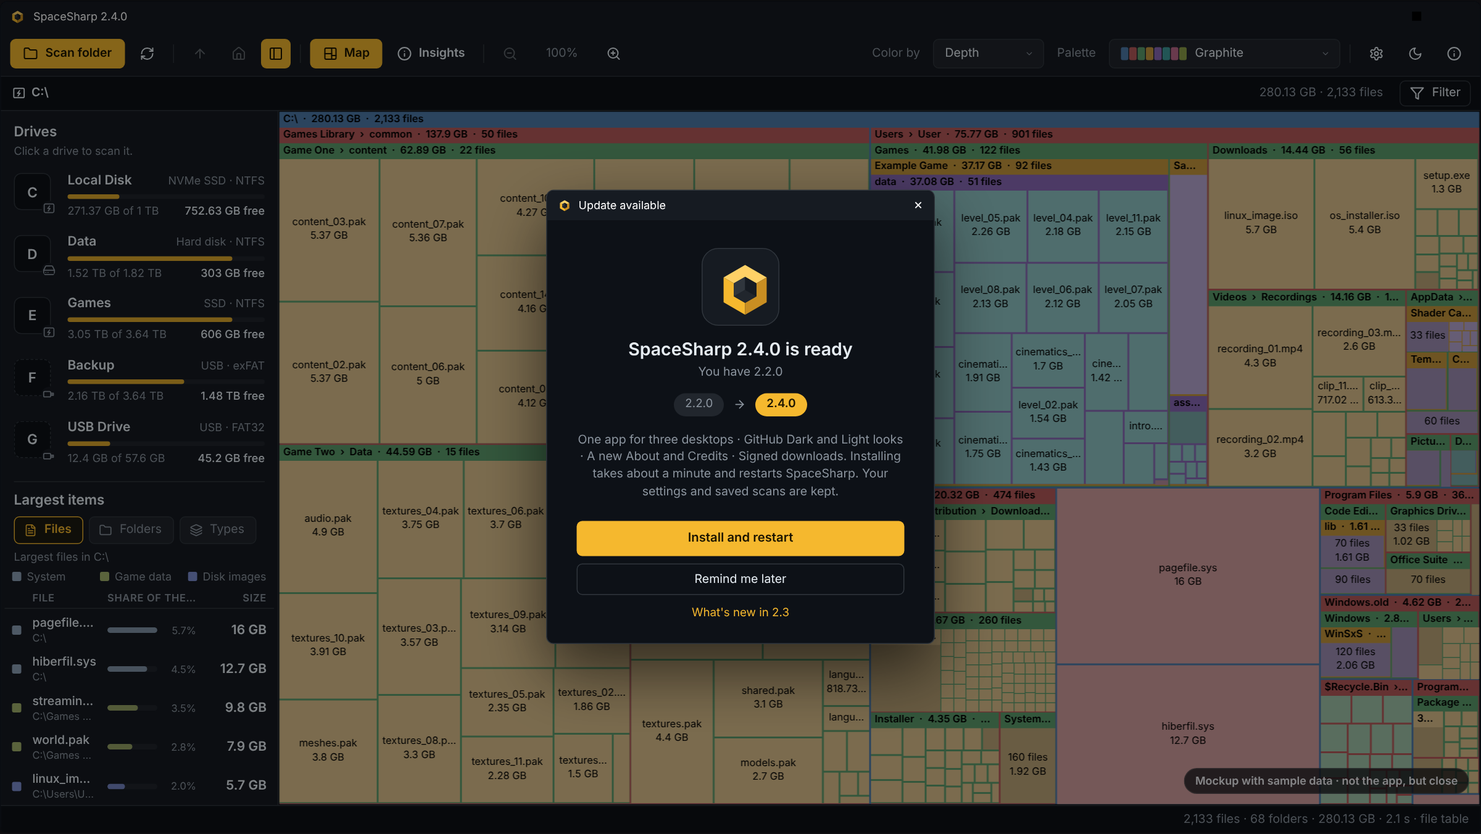
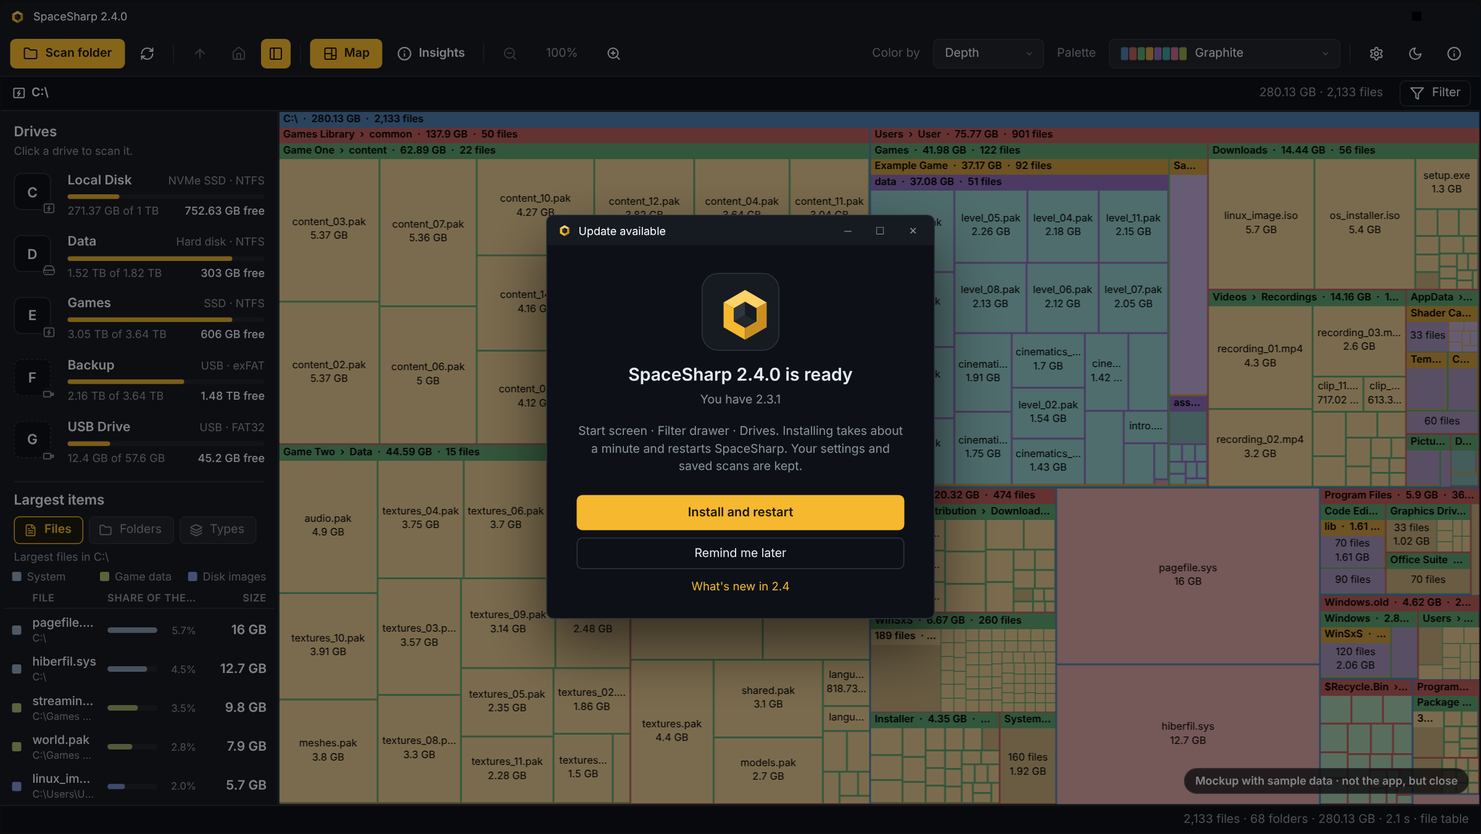
Small repo fixes

Changed region(s): [[0.3438, 0.3107, 0.6562, 0.7766], [0.3438, 0.2175, 0.6562, 0.2796]]

diff --git a/docs/spacesharp-mock.js b/docs/spacesharp-mock.js
@@ -206,7 +206,7 @@
   .ssm .st-val { display:inline-block; width:44px; text-align:right; color:var(--dim); font-size:15px; vertical-align:middle; margin-left:8px; }
   .ssm .dialog.settings .df { padding:16px 26px; margin-top:auto; } .ssm .st-reset { font-size:15px; } .ssm .dialog.settings .df .btn.accent { height:40px; font-size:15px; padding:0 20px; }
   .ssm .sw { width:40px; height:22px; border-radius:11px; background:var(--accent); position:relative; } .ssm .sw::after { content:""; position:absolute; top:3px; right:3px; width:16px; height:16px; border-radius:50%; background:#1C1500; } .ssm .sw.off { background:var(--hover); } .ssm .sw.off::after { right:auto; left:3px; background:var(--dim); }
-  .ssm .dialog.update { width:420px; } .ssm .ucol { padding:30px 32px 24px; display:flex; flex-direction:column; align-items:center; text-align:center; } .ssm .ucol .tile { width:84px; height:84px; border-radius:18px; background:var(--panel); display:grid; place-items:center; } .ssm .ucol .tile svg { width:64px; height:64px; } .ssm .ucol .t { font-size:19px; font-weight:600; margin-top:14px; } .ssm .ucol .h { color:var(--dim); margin-top:4px; } .ssm .ucol .jump { display:flex; align-items:center; gap:10px; margin-top:14px; font-size:12.5px; } .ssm .ucol .jump svg { width:14px; height:14px; color:var(--dim); } .ssm .ucol .from { padding:4px 12px; border-radius:999px; background:var(--control); color:var(--dim); } .ssm .ucol .to { padding:4px 12px; border-radius:999px; background:var(--accent); color:var(--accent-text); font-weight:600; } .ssm .ucol p { margin:16px 0 0; color:var(--dim); line-height:1.45; } .ssm .ucol .btn.big { width:100%; height:38px; margin-top:22px; font-size:13.5px; } .ssm .ucol .btn.wide { width:100%; height:34px; margin-top:8px; } .ssm .ucol a { color:var(--accent); font-size:12.5px; margin-top:12px; } .ssm .uhero { margin:20px 20px 0; padding:26px 24px 22px; background:var(--panel); border:1px solid var(--stroke); border-radius:10px; display:flex; flex-direction:column; align-items:center; text-align:center; } .ssm .uhero .mk svg { width:72px; height:72px; } .ssm .uhero .nm { display:flex; align-items:baseline; gap:10px; margin-top:10px; } .ssm .uhero .nm span { font-size:22px; font-weight:600; } .ssm .uhero .nm b { font-size:44px; font-weight:800; color:var(--accent); letter-spacing:-.03em; line-height:1; } .ssm .uhero .h { color:var(--dim); margin-top:6px; } .ssm .ulist { display:flex; flex-direction:column; gap:9px; padding:22px 36px 20px; font-size:13.5px; } .ssm .ulist div { display:flex; align-items:center; gap:12px; } .ssm .ulist svg { width:16px; height:16px; color:var(--accent); } .ssm .ulist a { color:var(--accent); font-size:12.5px; margin-left:28px; } .ssm .keeps { color:var(--dim); font-size:12px; } .ssm .dialog.notes { width:560px; }
+  .ssm .dialog.update { width:420px; } .ssm .ucol { padding:30px 32px 24px; display:flex; flex-direction:column; align-items:center; text-align:center; } .ssm .ucol .tile { width:84px; height:84px; border-radius:18px; background:var(--panel); display:grid; place-items:center; } .ssm .ucol .tile svg { width:64px; height:64px; } .ssm .ucol .t { font-size:19px; font-weight:600; margin-top:14px; } .ssm .ucol .h { color:var(--dim); margin-top:6px; } .ssm .ucol p { margin:16px 0 0; color:var(--dim); line-height:1.45; font-size:13px; } .ssm .ucol .btn.big { width:100%; height:38px; margin-top:22px; font-size:13.5px; } .ssm .ucol .btn.wide { width:100%; height:34px; margin-top:8px; } .ssm .ucol a { color:var(--accent); font-size:12.5px; margin-top:12px; } .ssm .uhero { margin:20px 20px 0; padding:26px 24px 22px; background:var(--panel); border:1px solid var(--stroke); border-radius:10px; display:flex; flex-direction:column; align-items:center; text-align:center; } .ssm .uhero .mk svg { width:72px; height:72px; } .ssm .uhero .nm { display:flex; align-items:baseline; gap:10px; margin-top:10px; } .ssm .uhero .nm span { font-size:22px; font-weight:600; } .ssm .uhero .nm b { font-size:44px; font-weight:800; color:var(--accent); letter-spacing:-.03em; line-height:1; } .ssm .uhero .h { color:var(--dim); margin-top:6px; } .ssm .ulist { display:flex; flex-direction:column; gap:9px; padding:22px 36px 20px; font-size:13.5px; } .ssm .ulist div { display:flex; align-items:center; gap:12px; } .ssm .ulist svg { width:16px; height:16px; color:var(--accent); } .ssm .ulist a { color:var(--accent); font-size:12.5px; margin-left:28px; } .ssm .keeps { color:var(--dim); font-size:12px; } .ssm .dialog.notes { width:560px; }
   .ssm .dialog .ub { display:flex; gap:16px; padding:22px 24px 18px; } .ssm .dialog .ub .g { width:26px; height:26px; color:var(--accent); flex:none; margin-top:2px; }
   .ssm .dialog .ub .t { font-size:15px; font-weight:600; } .ssm .dialog .ub .h { color:var(--dim); margin-top:6px; line-height:1.45; }
   .ssm .dialog .nb { padding:20px 24px 16px; line-height:1.6; white-space:pre-wrap; max-height:380px; overflow:hidden; } .ssm .dialog .nb b { font-weight:600; }
@@ -873,14 +873,15 @@
         scrim.hidden = false;
       }
       if (state.scene === "update" || state.scene === "whatsnew") {
-        const next = state.version, cur = "2.2.0";
+        // the real prompt: the mark on its tile, "x.y.z is ready", the version you have, the release's first headings
+        // leading one paragraph, then Install and restart, Remind me later and a What's new link
+        const next = state.version, cur = "2.3.1", short = next.replace(/\.0$/, "");
         dlg().className = "dialog " + (state.scene === "update" ? "update" : "notes");
         dlg().innerHTML = state.scene === "update"
-          ? dialogTitle("Update available") + `<div class="ucol"><span class="tile">${MARK}</span><div class="t">SpaceSharp ${next} is ready</div><div class="h">You have ${cur}</div>
-            <div class="jump"><span class="from">${cur}</span>${svg("arrow")}<span class="to">${next}</span></div>
-            <p>One app for three desktops · GitHub Dark and Light looks · A new About and Credits · Signed downloads. Installing takes about a minute and restarts SpaceSharp. Your settings and saved scans are kept.</p>
-            <div class="btn accent big">Install and restart</div><div class="btn outline wide">Remind me later</div><a>What's new in 2.3</a></div>`
-          : dialogTitle(`What's new in ${next}`) + `<div class="nb"><b>ONE APP FOR THREE DESKTOPS</b>\n•  SpaceSharp draws the same map with Avalonia and Skia on Windows, macOS and Linux. Everything the Windows app had is in it; the Mac and Linux packages come in a later release.\n•  Two looks are new: GitHub Dark and GitHub Light, in Settings › Appearance. Retro is back in the light theme.\n•  About is laid out in two columns, and Credits is a window of its own.\n\n<b>FIXES</b>\n•  The fast NTFS scan through the administrator helper no longer fails with "Cannot open volume".\n•  The scan card keeps counting all the way through "Read the file table".\n\n<b>UNDER THE HOOD</b>\n•  Releases are signed: the downloads carry a code signature, so Windows shows a verified publisher.\n…</div><div class="df"><div class="btn">${svg("open")}See all changes on GitHub</div><span class="spacer"></span><div class="btn accent">OK</div></div>`;
+          ? dialogTitle("Update available", true) + `<div class="ucol"><span class="tile">${MARK}</span><div class="t">SpaceSharp ${next} is ready</div><div class="h">You have ${cur}</div>
+            <p>Start screen · Filter drawer · Drives. Installing takes about a minute and restarts SpaceSharp. Your settings and saved scans are kept.</p>
+            <div class="btn accent big">Install and restart</div><div class="btn outline wide">Remind me later</div><a>What's new in ${short}</a></div>`
+          : dialogTitle(`What's new in ${next}`, true) + `<div class="nb"><b>START SCREEN</b>\n•  The start screen is laid out for any number of saved scans. The last scan is a panel of its own with a large ring, the earlier scans are rows under it, and a drive at 85% or more is shown in the warning color.\n\n<b>FILTER DRAWER</b>\n•  One stacked bar shows how the scan divides between the file types; size and age are scales with seven ticks each.\n\n<b>DRIVES</b>\n•  Each drive is a letter tile with the bar, used of total and free under the name. The bar turns orange at 85% and red at 92%.\n\n<b>LARGEST ITEMS</b>\n•  The list is a table: a color per file type, a share column and a legend.\n\n<b>FIXES</b>\n•  Zoom to folder on a merged cluster fills the window with the cluster.\n•  Inspect's By age donut has its colors back and shows the biggest band.\n…</div><div class="df"><div class="btn">${svg("open")}See all changes on GitHub</div><span class="spacer"></span><div class="btn accent">OK</div></div>`;
         scrim.hidden = false;
       }
       if (state.scene === "settings") {

diff --git a/README.md b/README.md
@@ -14,11 +14,13 @@
   <img src="https://img.shields.io/badge/Windows-10%20%7C%2011-74A6CC" alt="Windows 10 and 11">
   <img src="https://img.shields.io/badge/.NET-10-8C84D6" alt=".NET 10">
   <img src="https://img.shields.io/badge/Avalonia-12-8B44AC" alt="Avalonia 12">
+  <img src="https://img.shields.io/badge/languages-18-3FB950" alt="18 languages">
 </p>
 
 <p align="center">
   <a href="https://github.com/SpaceSharpApp/SpaceSharp/releases/latest"><img src="https://img.shields.io/badge/Download-latest%20release-F5B82E?style=for-the-badge" alt="Download the latest release"></a>
   <a href="https://spacesharp.app/"><img src="https://img.shields.io/badge/Website-spacesharp.app-21262D?style=for-the-badge" alt="Website"></a>
+  <a href="CHANGELOG.md"><img src="https://img.shields.io/badge/What's%20new-2.4-21262D?style=for-the-badge" alt="What's new in 2.4"></a>
 </p>
 
 <p align="center">
@@ -27,37 +29,62 @@
   <sub>Every file and folder is a box sized by the space it uses. Sample data.</sub>
 </p>
 
-Scan a drive, and the whole thing fills the window: folders are frames with a title bar, files are boxes inside them, and the biggest boxes are where your space went. Zoom into any folder, filter in plain words, see what changed since last time, and send what you do not need to the Recycle Bin without leaving the map.
+Your drive is full and you have no idea why. SpaceSharp reads the whole thing in seconds and draws it as one picture: folders are frames with a title bar, files are boxes inside them, and the biggest boxes are where your space went. Zoom into any folder, type a filter in plain words, see what changed since last time, and send what you do not need to the Recycle Bin without leaving the map.
 
-One portable `.exe`, or an installer that updates itself. Free and open source, and code-signed. Since 2.3 SpaceSharp is one app for Windows, macOS and Linux, built on [Avalonia](https://avaloniaui.net); the Mac and Linux packages follow in a later release.
+One portable `.exe`, or an installer that updates itself. Free, open source, code-signed, and it sends nothing anywhere. Since 2.3 SpaceSharp is one app for Windows, macOS and Linux, built on [Avalonia](https://avaloniaui.net); the Mac and Linux packages follow in a later release.
+
+## Thirty seconds to an answer
+
+1. **Click a drive.** The NTFS file table is read directly, so a terabyte takes seconds, not minutes.
+2. **Look at the big boxes.** That is your space. Double-click to zoom in, Backspace to come back up.
+3. **Type what you are looking for.** `videos over 1GB older than a year` dims everything else. Select the matches, press Del, done.
+
+## Why people keep it installed
+
+- **It is fast where it counts.** A drive with a million files is on screen before you have finished reading this sentence. Scans are saved, so the next launch opens yesterday's map instantly and shows what grew.
+- **It speaks your language.** The filter understands `photos`, `over 500 MB`, `not modified in 2 years`, in any combination, and the drawer writes the same filter from checkboxes and scales. The interface itself comes in 18 languages.
+- **It tells you what is safe to clear.** Insights lists the usual suspects (Windows.old, caches, the Recycle Bin, stale Downloads) with the space they hold and one button each.
+- **It looks the way you want.** Thirteen palettes, twelve looks for the window, cushion shading with its own light direction, and a palette editor for your own colors, all with a live preview.
+- **It never surprises you.** Deleting always goes through the Recycle Bin, the map updates without a rescan, and the only network traffic is the update check, which the portable exe does not even make.
+
+## A tour
+
+<table align="center">
+  <tr>
+    <td align="center" width="50%"><a href="docs/shot-start.png"><img src="docs/shot-start.png" alt="The start screen"></a><br><sub><b>Start.</b> Your last scan ready to open, the earlier ones under it, how full every drive is now.</sub></td>
+    <td align="center" width="50%"><a href="docs/shot-insights.png"><img src="docs/shot-insights.png" alt="The Insights view"></a><br><sub><b>Insights.</b> The map swapped for the numbers, every row a click back to it.</sub></td>
+  </tr>
+  <tr>
+    <td align="center"><a href="docs/shot-filter.png"><img src="docs/shot-filter.png" alt="The filter drawer"></a><br><sub><b>Filter.</b> Pick types, set size and age on a scale, and the map dims to the matches.</sub></td>
+    <td align="center"><a href="docs/shot-change.png"><img src="docs/shot-change.png" alt="Color by change"></a><br><sub><b>What changed.</b> Grew warm, shrank cool, new in amber.</sub></td>
+  </tr>
+  <tr>
+    <td align="center"><a href="docs/shot-inspect.png"><img src="docs/shot-inspect.png" alt="The Inspect window"></a><br><sub><b>Inspect.</b> Where the space is, by type and by age.</sub></td>
+    <td align="center"><a href="docs/shot-menu.png"><img src="docs/shot-menu.png" alt="The right-click menu"></a><br><sub><b>Right-click.</b> Inspect, open, filter to this type, or send it to the Recycle Bin.</sub></td>
+  </tr>
+  <tr>
+    <td align="center"><a href="docs/shot-settings.png"><img src="docs/shot-settings.png" alt="Settings, Treemap page"></a><br><sub><b>Shading.</b> Every slider shows in the preview as you drag it.</sub></td>
+    <td align="center"><a href="docs/shot-light.png"><img src="docs/shot-light.png" alt="The light theme, colored by file type"></a><br><sub><b>Light theme.</b> Colored by file type, with the Pastel palette.</sub></td>
+  </tr>
+</table>
 
 ## What it does
 
 | | |
 |---|---|
 | **Scans a whole drive in seconds** | Reads the NTFS file table directly (asks for administrator rights once); a parallel folder walk covers everything else. Hidden and system files included, junctions skipped. |
-| **One map, shaded your way** | Folders are frames, files are cushioned boxes. Shading depth, light direction, title bars, text colors and grid are sliders in Settings with a live preview. |
-| **Filter in plain words** | `videos over 500MB older than 1 year` dims everything else and keeps the layout, so you see where the matches are. A drawer with checkboxes and sliders writes the same filter for you. |
-| **Insights view** | One click swaps the map for the numbers: what is scanned, free and safe to clear; space by file type; places that are usually safe to empty (Windows.old, caches, the Recycle Bin, old Downloads) with one Recycle button; when files were last changed; the largest folders and files; what grew, shrank and appeared since last scan. Every row is a click back to the map, filtered to it. |
-| **Remembers every scan** | Opens with yesterday's map on screen. Color by change shows what grew, shrank or appeared since last time. |
+| **One map, shaded your way** | Folders are frames, files are cushioned boxes. Shading depth, spread, tone, fade and light direction, title bars, text colors and grid are controls in Settings with a live preview. |
+| **Filter in plain words** | `videos over 500MB older than 1 year` dims everything else and keeps the layout, so you see where the matches are. A drawer with type tiles, size and age scales and quick filters writes the same filter for you. |
+| **Insights view** | One click swaps the map for the numbers: what is scanned, free and safe to clear; space by file type; places that are usually safe to empty with one Recycle button; when files were last changed; the largest folders and files; what grew, shrank and appeared since last scan. Every row is a click back to the map, filtered to it. |
+| **Remembers every scan** | Opens with yesterday's map on screen. Color by change shows what grew, shrank or appeared since last time. The side panel's Largest items has a Changes tab for the same. |
 | **Inspect anything** | Size and share, where the space is inside, donuts by type and by age, and a callout when one thing holds most of a folder. |
-| **Thirteen palettes, twelve looks, and your own** | Seven palettes for the dark theme, six for the light one, twelve hues each, and six looks per theme for the window itself. A palette creator makes new ones from a base color or by hex. |
+| **Thirteen palettes, twelve looks, and your own** | Seven palettes for the dark theme, six for the light one, twelve hues each, and six looks per theme for the window itself. The palette editor is one list of colors you can type into, with a picker, contrast checks and a sample map. |
 | **Cleans up safely** | Everything goes to the Recycle Bin and the map updates without a rescan. |
+| **Knows your keyboard** | The shortcuts window draws your keyboard (QWERTY, Nordic, QWERTZ, AZERTY or Dvorak, Mac keys on a Mac) with the keys SpaceSharp uses lit up. |
 
-<table align="center">
-  <tr>
-    <td align="center" width="50%"><a href="docs/shot-insights.png"><img src="docs/shot-insights.png" alt="The Insights view"></a><br><sub><b>Insights.</b> The map swapped for the numbers, every row a click back to it.</sub></td>
-    <td align="center" width="50%"><a href="docs/shot-filter.png"><img src="docs/shot-filter.png" alt="The filter drawer"></a><br><sub><b>Filter.</b> Check types, set size and age, and the map dims to the matches.</sub></td>
-  </tr>
-  <tr>
-    <td align="center"><a href="docs/shot-change.png"><img src="docs/shot-change.png" alt="Color by change"></a><br><sub><b>What changed.</b> Grew warm, shrank cool, new in amber.</sub></td>
-    <td align="center"><a href="docs/shot-inspect.png"><img src="docs/shot-inspect.png" alt="The Inspect window"></a><br><sub><b>Inspect.</b> Where the space is, by type and by age.</sub></td>
-  </tr>
-  <tr>
-    <td align="center"><a href="docs/shot-settings.png"><img src="docs/shot-settings.png" alt="Settings, Treemap page"></a><br><sub><b>Shading.</b> Every slider shows in the preview as you drag it.</sub></td>
-    <td align="center"><a href="docs/shot-menu.png"><img src="docs/shot-menu.png" alt="The right-click menu"></a><br><sub><b>Right-click.</b> Inspect, open, filter to this type, or send it to the Recycle Bin.</sub></td>
-  </tr>
-</table>
+### New in 2.4
+
+A redesigned start screen, filter drawer, drive list, largest-items table, palette editor and shortcuts window; a keyboard map that follows your layout; clusters that zoom properly; and a long list of fixes. The whole story is in the [changelog](CHANGELOG.md).
 
 ## Download
 
@@ -81,11 +108,12 @@ For 64-bit Windows 10 and 11 (Windows on ARM runs them through x64 emulation). G
 1. Click a drive in the **Drives** list, or **Scan folder** for one folder. Windows asks for administrator rights for a drive scan; without them, protected folders are skipped and marked.
 2. The biggest boxes are the biggest space users. Hover for the path and size, double-click a folder to zoom in, Backspace or the mouse back button to go up.
 3. Right-click a box for Inspect, Open, Show in Explorer, Properties, copy, filter to its type, select its folder, or Recycle Bin.
-4. Press **B** to switch between the map and Insights, **Ctrl+F** for the filter, **L** for the side panel with your drives and the largest files, and the gear or **Ctrl+,** for Settings.
+4. Press **B** to switch between the map and Insights, **Ctrl+F** for the filter, **L** for the side panel with your drives and the largest files, and the gear or **Ctrl+,** for Settings. **F1** draws your keyboard with every shortcut on it.
 
-### The filter
+<details>
+<summary><b>The filter language</b></summary>
 
-The drawer (Ctrl+F) has file types as rows with a share bar, size and age controls, Files or Folders, and presets such as Large files and Untouched for 2 years. Its name box also takes the full syntax, and anything you type becomes checked rows and set controls. Settings › Map › Filter layout switches to a one-row rail instead.
+The drawer (Ctrl+F) has file types as tiles with a share bar, size and age scales, Files or Folders, and quick filters such as Large files and Untouched for 2 years. Its name box also takes the full syntax, and anything you type becomes picked tiles and set scales. Settings › Map › Filter layout switches to a one-row rail instead.
 
 | You can type | Meaning |
 |---|---|
@@ -99,7 +127,10 @@ The drawer (Ctrl+F) has file types as rows with a share bar, size and age contro
 
 Terms combine. **Select matches** (Ctrl+A) selects all of them; Del sends them to the Recycle Bin in one go.
 
-### Settings
+</details>
+
+<details>
+<summary><b>Settings</b></summary>
 
 Everything applies at once and is saved. The pages:
 
@@ -109,13 +140,16 @@ Everything applies at once and is saved. The pages:
 - **Map**: size measure (file size or size on disk), free space, merge single-folder chains, hover details, filter layout, side panel, animated zoom.
 - **Scanning**: fast NTFS scan, names to leave out, reopen the last scan, how long saved scans are kept, hidden and system files, hard links counted once.
 
-**Color by** is Top folder, Depth (like SpaceMonger), File type (with a legend), or Change (since the last scan). **Palettes**, dark: Graphite, Ocean, Sunset, Forest, Aurora, Monochrome, Color-blind safe; light: Pastel, Paper, Candy, Nordic, Earth, Retro, Color-blind safe (light). Your own come from Settings › Treemap › Custom palettes: twelve folder colors, the file tint and the type colors, by hex or sliders, with a sample map beside them. They are JSON files in `%LocalAppData%\SpaceSharp\palettes`, where hand-written ones go too:
+**Color by** is Top folder, Depth (like SpaceMonger), File type (with a legend), or Change (since the last scan). **Palettes**, dark: Graphite, Ocean, Sunset, Forest, Aurora, Monochrome, Color-blind safe; light: Pastel, Paper, Candy, Nordic, Earth, Retro, Color-blind safe (light). Your own come from Settings › Treemap › Custom palettes: twelve folder colors, the file tint and the type colors, typed as hex or picked with sliders, with a sample map beside them. They are JSON files in `%LocalAppData%\SpaceSharp\palettes`, where hand-written ones go too:
 
 ```json
 { "name": "Mine", "theme": "dark", "folders": ["#5B8DEF", "#49B86B", "#E8C547", "#E8864A"] }
 ```
 
-### Command line
+</details>
+
+<details>
+<summary><b>Command line</b></summary>
 
 | | |
 |---|---|
@@ -126,7 +160,10 @@ Everything applies at once and is saved. The pages:
 
 Only one SpaceSharp runs at a time; starting it again hands the request to the open window.
 
-### Keyboard and mouse
+</details>
+
+<details>
+<summary><b>Keyboard and mouse</b></summary>
 
 | Input | Action |
 |---|---|
@@ -152,7 +189,12 @@ Only one SpaceSharp runs at a time; starting it again hands the request to the o
 | Esc | Cancel a scan, close the filter |
 | F1 | About and shortcuts |
 
-### Where things are stored
+The same list, drawn on your own keyboard layout, is under About › Keyboard shortcuts.
+
+</details>
+
+<details>
+<summary><b>Where things are stored</b></summary>
 
 | What | Where |
 |---|---|
@@ -162,6 +204,8 @@ Only one SpaceSharp runs at a time; starting it again hands the request to the o
 | The installed app | `%LocalAppData%\SpaceSharp\` |
 
 Nothing leaves the machine except the update check against GitHub Releases, which only installed copies make.
+
+</details>
 
 ## Building
 

diff --git a/CHANGELOG.md b/CHANGELOG.md
@@ -24,7 +24,7 @@ What changed in each SpaceSharp release, newest first. The 1.x releases are in [
 
 ### Under the hood
 - For trying the app without a scan: `--mock` starts on a pretend PC with the sample drive and drives from the screenshot mockup, Ctrl+Shift+Alt+M loads it in a running app, and Ctrl+Shift+Alt+U opens the update prompt with nothing behind it. None of the three are listed anywhere in the app.
-- The screenshot mockup (docs/spacesharp-mock.js) draws the new start screen, drawer, drive list, largest-items table and tab buttons, the Settings window as its own window with the sample-drive preview, the Custom palettes row, the Tone slider and the Light from tiles, and the Inspect age donut the way the app does, and takes its version from the page; the README screenshots, their mobile copies, the brand assets and the social preview are regenerated for 2.4, and the drawn README graphics (tools/readme-graphics.html, docs/readme-*.png) are gone, since the README no longer uses them.
+- The screenshot mockup (docs/spacesharp-mock.js) draws the new start screen, drawer, drive list, largest-items table and tab buttons, the Settings window as its own window with the sample-drive preview, the Custom palettes row, the Tone slider and the Light from tiles, the update prompt and What's new, and the Inspect age donut the way the app does, and takes its version from the page; the README screenshots, their mobile copies, the brand assets and the social preview are regenerated for 2.4, and the drawn README graphics (tools/readme-graphics.html, docs/readme-*.png) are gone, since the README no longer uses them.
 
 ### Fixes
 - Inspect's "By age" donut was drawn in four grays with no amber, because the accent was looked up before the window had a theme and came back empty; the bands run amber to gray again, in both themes. Its center showed a figure that was no slice (the two oldest bands added together, "over a year old", cut off mid-word); it shows the biggest band now, as the type donut shows its biggest type, and a label the hole cannot hold on one line wraps onto a second line instead of being trimmed. The band percentages are of the dated bytes, so they add up to 100% when some files carry no date.
